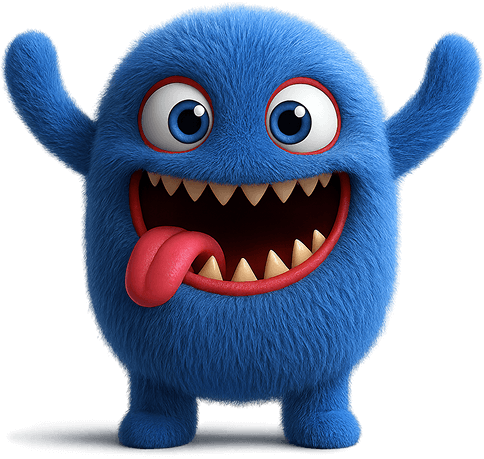
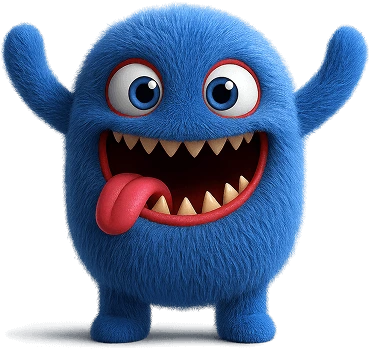
fix

diff --git a/components/layouts/LPLayout/Hero/index.tsx b/components/layouts/LPLayout/Hero/index.tsx
@@ -57,15 +57,27 @@ export default function Hero() {
 
         <div className="relative flex items-end flex-col justify-end">
           <div className="relative py-[55%] md:py-[41%] 2xl:py-[31%] w-full top-[-1rem] md:top-11 lg:top-16">
-            <Image
-              className="object-scale-down"
-              src="/images/pictures/monster.webp"
-              alt="Blue Monster"
-              fill
-              sizes="(max-width: 768px) 100vw, 400px"
-              priority
-            />
-          </div>{" "}
+            <div className="hidden lg:block">
+              <Image
+                className="object-scale-down"
+                src="/images/pictures/monster_.webp"
+                alt="Blue Monster"
+                fill
+                sizes="(max-width: 768px) 100vw, 400px"
+                priority
+              />
+            </div>
+            <div className="block lg:hidden">
+              <Image
+                className="object-scale-down"
+                src="/images/pictures/monster.webp"
+                alt="Blue Monster"
+                fill
+                sizes="(max-width: 768px) 100vw, 400px"
+                priority
+              />
+            </div>
+          </div>
         </div>
       </div>
     </Section>
